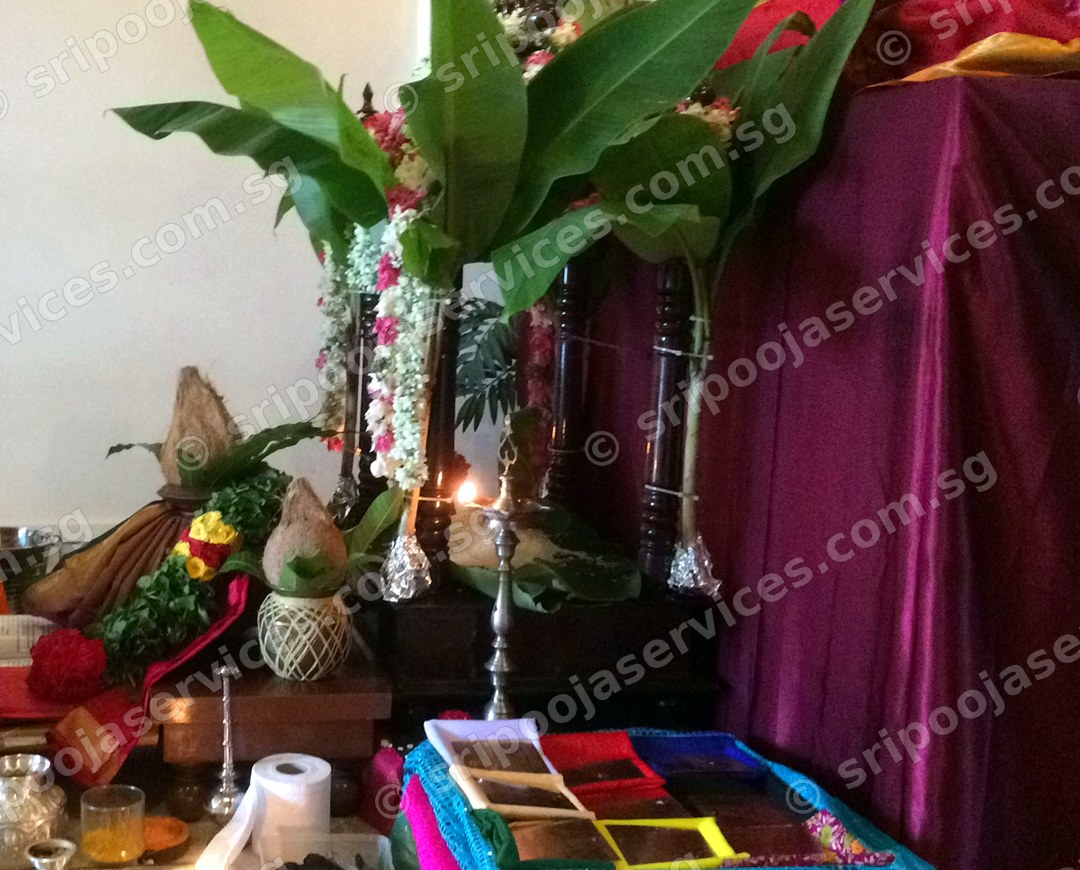
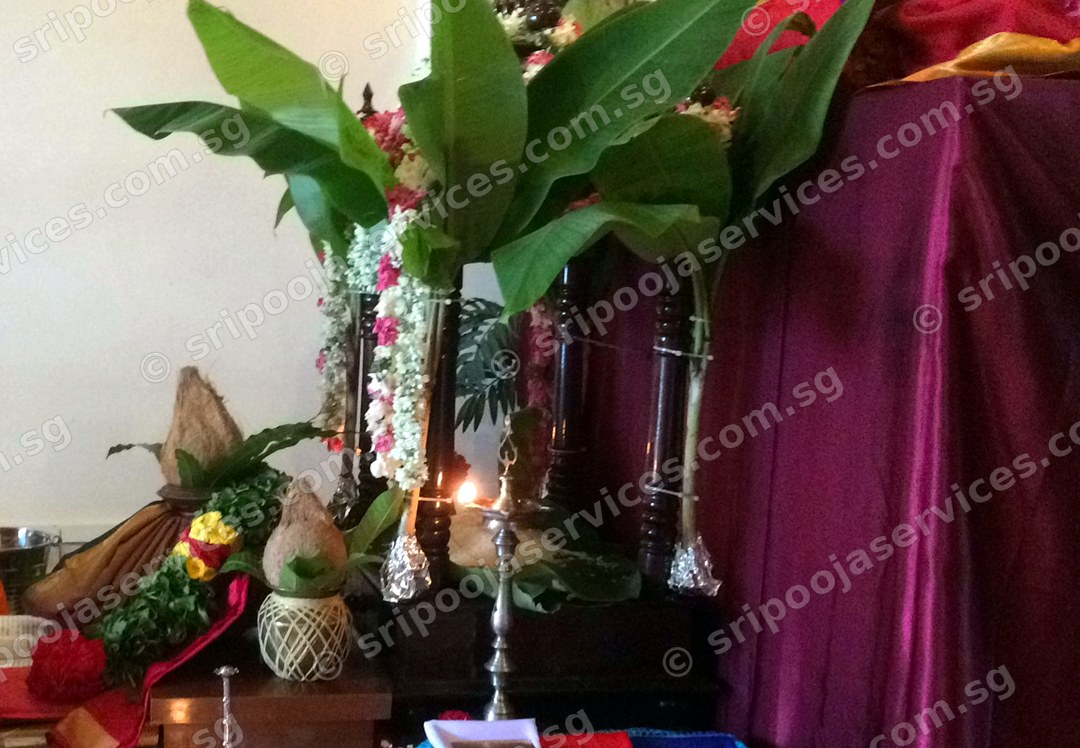
Photos: recrop 35
Claude-Session: https://claude.ai/code/session_01XfYPcg9wYB2SYewJi32MZp

diff --git a/photo.htm b/photo.htm
@@ -61,7 +61,7 @@
     <figure><img src="image/gallery/photo32.jpg" alt="Abhishekam during a Devata Vigraha Pratishta (idol installation)" loading="lazy" width="450" height="800"><figcaption>Abhishekam during a Devata Vigraha Pratishta (idol installation)</figcaption></figure>
     <figure><img src="image/gallery/photo33.jpg" alt="Sri Maha Ganapati Pooja" loading="lazy" width="600" height="800"><figcaption>Sri Maha Ganapati Pooja</figcaption></figure>
     <figure><img src="image/gallery/photo34.jpg" alt="Aishwarya Deepa Pooja by Suvaasinis" loading="lazy" width="1032" height="581"><figcaption>Aishwarya Deepa Pooja by Suvaasinis</figcaption></figure>
-    <figure><img src="image/gallery/photo35.jpg" alt="Sri Sathyanarayana Pooja" loading="lazy" width="1080" height="870"><figcaption>Sri Sathyanarayana Pooja</figcaption></figure>
+    <figure><img src="image/gallery/photo35.jpg?v=2" alt="Sri Sathyanarayana Pooja" loading="lazy" width="1080" height="748"><figcaption>Sri Sathyanarayana Pooja</figcaption></figure>
     <figure><img src="image/gallery/photo37.jpg" alt="Deeparadhana to the Pradhaana Kalasam during the Sahasra Modaka Homam" loading="lazy" width="1080" height="1007"><figcaption>Deeparadhana to the Pradhaana Kalasam during the Sahasra Modaka Homam</figcaption></figure>
     <figure><img src="image/gallery/photo38.jpg" alt="Sri Lalitha Sahasranaama Laksha Archana" loading="lazy" width="640" height="960"><figcaption>Sri Lalitha Sahasranaama Laksha Archana</figcaption></figure>
     <figure><img src="image/gallery/photo39.jpg" alt="Nava Kalasam installation as part of the Sri Chakra Yantra Praanapratishta" loading="lazy" width="810" height="1080"><figcaption>Nava Kalasam installation as part of the Sri Chakra Yantra Praanapratishta</figcaption></figure>
